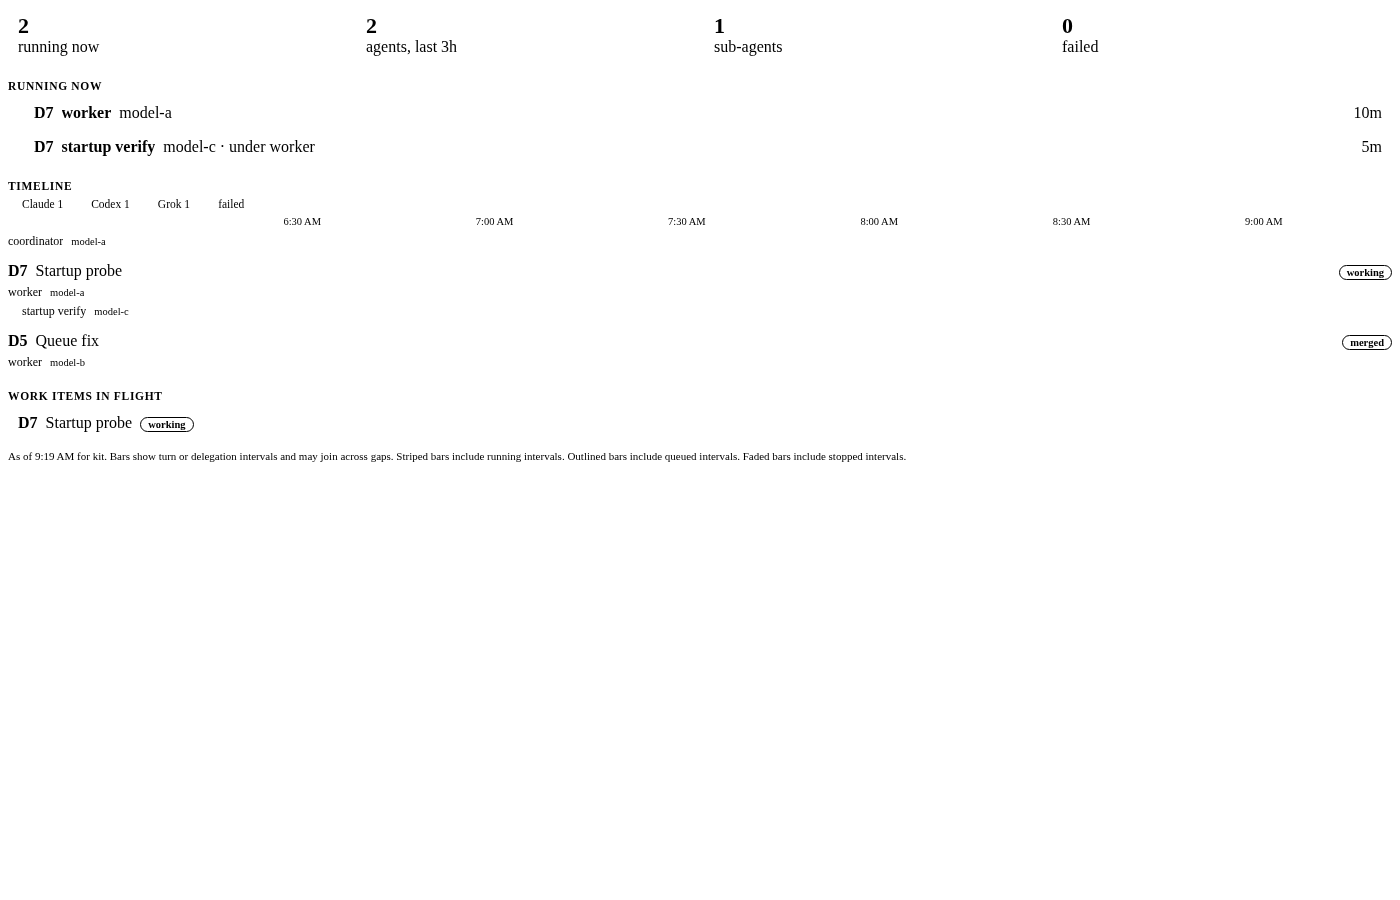
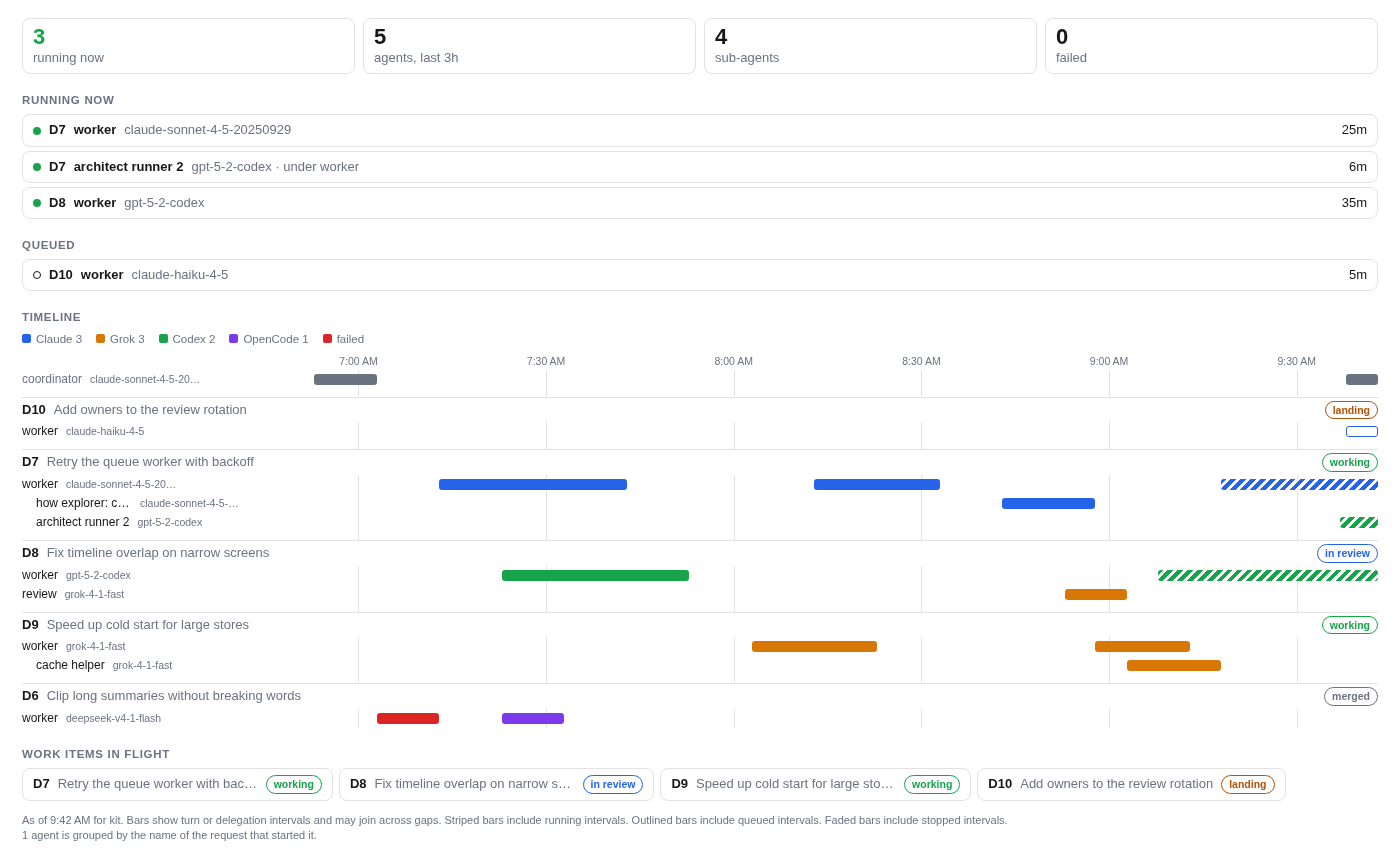
Rebuild the activity screenshot with styled capture and realistic demo

diff --git a/README.md b/README.md
@@ -20,7 +20,7 @@
 **pstack-t3 makes any model in T3 Code do careful engineering, and gives each project a standing coordinator that turns your requests into reviewed, landed changes.**
 
 <p align="center">
-  <img src="docs/assets/activity-view.png" alt="Activity page for the demo coordinator kit, showing one working item, one merged item, one running worker, and one sub-agent" width="100%">
+  <img src="docs/assets/activity-view.png" alt="Activity page for the demo coordinator kit, showing three running agents, one queued worker, sub-agents under two workers, items working, in review, landing, and merged, and timeline bars for Claude, Codex, Grok, and OpenCode models" width="100%">
 </p>
 
 ## What it does

diff --git a/changes/pstack-t3%2Fd343.md b/changes/pstack-t3%2Fd343.md
@@ -1,2 +1,4 @@
 - kind polish
 - README opens with the pitch plus a screenshot of the activity page, and install plus policy detail now live in guide.
+- Activity screenshot rebuilds the demo with realistic workers and captures the page with light theme values at 1400 wide, cropped to content.
+- README alt text names the running agents, the item states, and the model families the new image shows.
